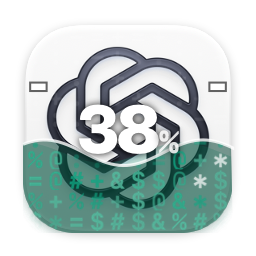
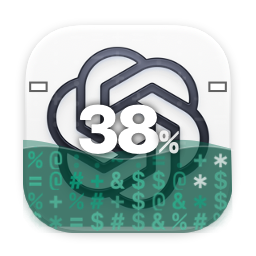
波浪幅度減半、後層加深看得出兩層、水面亮線調淡

Changed region(s): [[0.0625, 0.5312, 0.9062, 0.9062], [0.4688, 0.8438, 0.5938, 0.9062]]

diff --git a/Sources/UsageMeter/main.swift b/Sources/UsageMeter/main.swift
@@ -167,7 +167,7 @@ func renderIcon(kind: Kind, base: NSImage?, short: Double?, long: Double?, phase
 
         // 只有用掉的部分（水位以下）壓暗＋染色，上面維持原圖示：多少 % 就滿到多少；水面是流動的波浪
         let waterLevel = body.minY + body.height * p
-        let amp = p > 0.01 && p < 0.99 ? s * 0.05 : 0
+        let amp = p > 0.01 && p < 0.99 ? s * 0.025 : 0
         func waveY(_ x: CGFloat, _ offset: CGFloat = 0, _ a: CGFloat? = nil, _ dir: CGFloat = 1) -> CGFloat {
             waterLevel + sin((x - body.minX) / body.width * .pi * 2 * 1.3 + phase * dir + offset) * (a ?? amp)
         }
@@ -180,8 +180,12 @@ func renderIcon(kind: Kind, base: NSImage?, short: Double?, long: Double?, phase
             path.close()
             return path
         }
-        color.withAlphaComponent(0.22).setFill()
-        wave(.pi * 0.7, amp * 0.8, -0.7).fill()      // 後層反向流
+        let back = wave(.pi * 0.7, amp, -0.7)          // 後層反向流，比前層高一點、淡一點
+        let lift = NSAffineTransform(); lift.translateX(by: 0, yBy: s * 0.025); back.transform(using: lift as AffineTransform)
+        NSColor.black.withAlphaComponent(0.20).setFill()
+        back.fill()
+        color.withAlphaComponent(0.30).setFill()
+        back.fill()
         let front = wave(0, amp)
         NSColor.black.withAlphaComponent(0.40).setFill()
         front.fill()
@@ -243,8 +247,8 @@ func renderIcon(kind: Kind, base: NSImage?, short: Double?, long: Double?, phase
         var cx = body.minX - 2
         crest.move(to: NSPoint(x: cx, y: waveY(cx)))
         while cx <= body.maxX + 2 { cx += s / 64; crest.line(to: NSPoint(x: cx, y: waveY(cx))) }
-        crest.lineWidth = s * 0.012
-        NSColor.white.withAlphaComponent(amp > 0 ? 0.8 : 0).setStroke()
+        crest.lineWidth = s * 0.006
+        NSColor.white.withAlphaComponent(amp > 0 ? 0.25 : 0).setStroke()
         crest.stroke()
 
         // 7 天刻度：兩側的小括號
